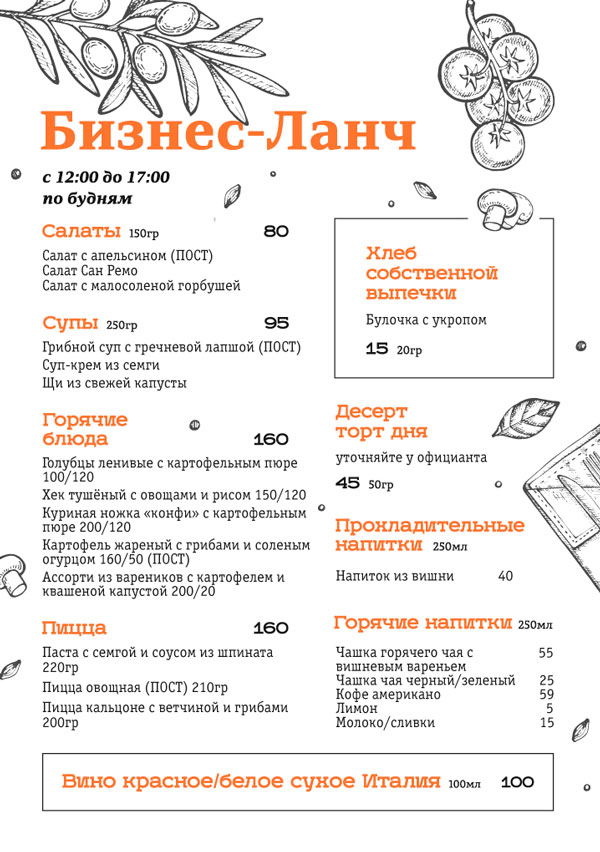
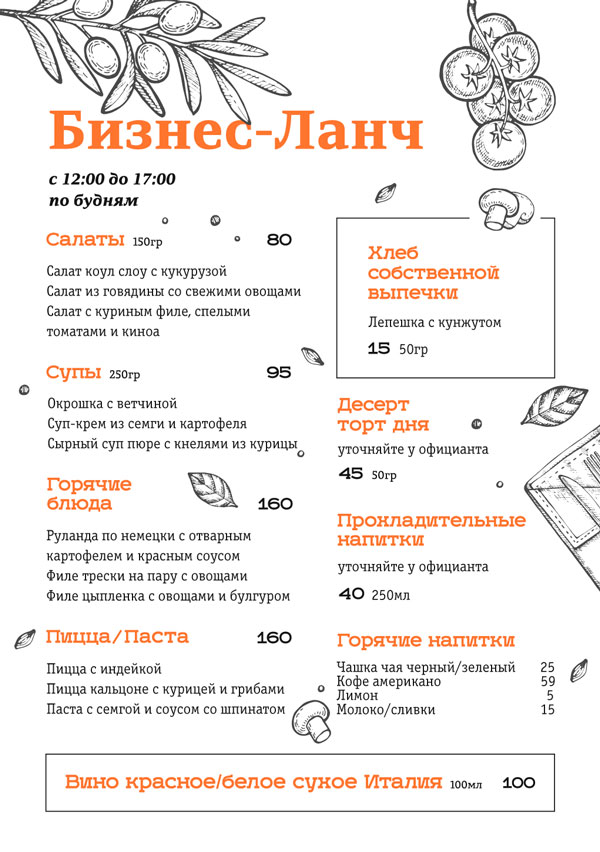
убрал кулич, вернул бизнес ланч

diff --git a/menu.html b/menu.html
@@ -133,9 +133,9 @@
                                 <li class="item"><a href="menu.html#breakfast" data-filter=".breakfast">
                                     <div>Завтраки</div>
                                 </a></li>
-<!--                                <li class="item"><a href="menu.html#lunch" data-filter=".lunch">
+                               <li class="item"><a href="menu.html#lunch" data-filter=".lunch">
                                     <div>Бизнес Ланч</div>
-                                </a></li>-->
+                                </a></li>
                                 <li class="item"><a href="bar_menu.html" target="_blank">
                                     <div>Барное Меню</div>
                                 </a></li>
@@ -198,13 +198,13 @@
                 <ul class="menu-fillter clearfix">
                     <li><a href="menu.html#main_menu" data-filter=".main_menu" id="main_menu">Основное меню</a></li>
                     <li><a href="menu.html#breakfast" data-filter=".breakfast" id="breakfast">Завтраки</a></li>
-                    <!--<li><a href="menu.html#lunch" data-filter=".lunch" id="lunch">Бизнес Ланчи</a></li>-->
+                    <li><a href="menu.html#lunch" data-filter=".lunch" id="lunch">Бизнес Ланчи</a></li>
                     <li><a href="menu.html#bar_menu" data-filter=".bar_menu" id="bar_menu">Барное меню</a></li>
                     <li><a href="menu.html#wine_map" data-filter=".wine_map" id="wine_map">Винная карта</a></li>
                    <!-- <li><a href="menu.html#seasonal" data-filter=".seasonal" id="seasonal">Сезонное меню</a></li>-->
                     <li><a href="menu.html#hookah" data-filter=".hookah" id="hookah">Кальян</a></li>
                     <li><a href="menu.html#prepack" data-filter=".prepack" id="prepack">Полуфабрикаты</a></li>
-                   <li><a href="menu.html#easter_cake" data-filter=".easter_cake" id="easter_cake">Куличи</a></li>
+                   <!--<li><a href="menu.html#easter_cake" data-filter=".easter_cake" id="easter_cake">Куличи</a></li>-->
 
 
                     <!--             <li><a href="menu.html#post" data-filter=".post" id="post">Постное Меню</a></li>-->

diff --git a/backup/02.06/menu.html b/backup/02.06/menu.html
@@ -133,9 +133,9 @@
                                 <li class="item"><a href="menu.html#breakfast" da1ta-filter=".breakfast">
                                     <div>Завтраки</div>
                                 </a></li>
-<!--                                <li class="item"><a href="menu.html#lunch" data-filter=".lunch">
+                               <li class="item"><a href="menu.html#lunch" data-filter=".lunch">
                                     <div>Бизнес Ланч</div>
-                                </a></li>-->
+                                </a></li>
 <!--                                <li class="item"><a href="seasonal_offer_interactive_menu.html" data-filter=".seasonal">
                                     <div>Сезонное Меню</div>
                                 </a></li>-->

diff --git a/backup_19_08_2018/menu.html b/backup_19_08_2018/menu.html
@@ -133,9 +133,9 @@
                                 <li class="item"><a href="menu.html#breakfast" da1ta-filter=".breakfast">
                                     <div>Завтраки</div>
                                 </a></li>
-<!--                                <li class="item"><a href="menu.html#lunch" data-filter=".lunch">
+                               <li class="item"><a href="menu.html#lunch" data-filter=".lunch">
                                     <div>Бизнес Ланч</div>
-                                </a></li>-->
+                                </a></li>
 <!--                                <li class="item"><a href="seasonal_offer_interactive_menu.html" data-filter=".seasonal">
                                     <div>Сезонное Меню</div>
                                 </a></li>-->

diff --git a/backup_19_08_2018/contact.html b/backup_19_08_2018/contact.html
@@ -122,9 +122,9 @@
                                 <li class="item"><a href="menu.html#breakfast" data-filter=".breakfast">
                                     <div>Завтраки</div>
                                 </a></li>
-<!--                                <li class="item"><a href="menu.html#lunch" data-filter=".lunch">
+                               <li class="item"><a href="menu.html#lunch" data-filter=".lunch">
                                     <div>Бизнес Ланч</div>
-                                </a></li>-->
+                                </a></li>
 <!--                                <li class="item"><a href="seasonal_offer_interactive_menu.html" data-filter=".seasonal">
                                     <div>Сезонное Меню</div>
                                 </a></li>-->

diff --git a/backup_19_08_2018/gallery.html b/backup_19_08_2018/gallery.html
@@ -121,9 +121,9 @@
                                 <li class="item"><a href="menu.html#breakfast" data-filter=".breakfast">
                                     <div>Завтраки</div>
                                 </a></li>
-<!--                                <li class="item"><a href="menu.html#lunch" data-filter=".lunch">
+                               <li class="item"><a href="menu.html#lunch" data-filter=".lunch">
                                     <div>Бизнес Ланч</div>
-                                </a></li>-->
+                                </a></li>
 <!--                                <li class="item"><a href="seasonal_offer_interactive_menu.html" data-filter=".seasonal">
                                     <div>Сезонное Меню</div>
                                 </a></li>-->

diff --git a/backup_19_08_2018/index.html b/backup_19_08_2018/index.html
@@ -132,9 +132,9 @@
                                 <li class="item"><a href="menu.html#breakfast" data-filter=".breakfast">
                                     <div>Завтраки</div>
                                 </a></li>
-<!--                                <li class="item"><a href="menu.html#lunch" data-filter=".lunch">
+                               <li class="item"><a href="menu.html#lunch" data-filter=".lunch">
                                     <div>Бизнес Ланч</div>
-                                </a></li>-->
+                                </a></li>
 <!--                                <li class="item"><a href="seasonal_offer_interactive_menu.html" data-filter=".seasonal">
                                     <div>Сезонное Меню</div>
                                 </a></li>-->

diff --git a/backup_19_08_2018/partners.html b/backup_19_08_2018/partners.html
@@ -121,9 +121,9 @@
                                 <li class="item"><a href="menu.html#breakfast" data-filter=".breakfast">
                                     <div>Завтраки</div>
                                 </a></li>
-<!--                                <li class="item"><a href="menu.html#lunch" data-filter=".lunch">
+                               <li class="item"><a href="menu.html#lunch" data-filter=".lunch">
                                     <div>Бизнес Ланч</div>
-                                </a></li>-->
+                                </a></li>
 <!--                                <li class="item"><a href="seasonal_offer_interactive_menu.html" data-filter=".seasonal">
                                     <div>Сезонное Меню</div>
                                 </a></li>-->

diff --git a/contact.html b/contact.html
@@ -122,9 +122,9 @@
                                 <li class="item"><a href="menu.html#breakfast" data-filter=".breakfast">
                                     <div>Завтраки</div>
                                 </a></li>
-<!--                                <li class="item"><a href="menu.html#lunch" data-filter=".lunch">
+                               <li class="item"><a href="menu.html#lunch" data-filter=".lunch">
                                     <div>Бизнес Ланч</div>
-                                </a></li>-->
+                                </a></li>
                                 <li class="item"><a href="bar_menu.html" target="_blank">
                                     <div>Барное Меню</div>
                                 </a></li>

diff --git a/corporate.html b/corporate.html
@@ -131,9 +131,9 @@
                                 <li class="item"><a href="menu.html#breakfast" data-filter=".breakfast">
                                     <div>Завтраки</div>
                                 </a></li>
-<!--                                <li class="item"><a href="menu.html#lunch" data-filter=".lunch">
+                               <li class="item"><a href="menu.html#lunch" data-filter=".lunch">
                                     <div>Бизнес Ланч</div>
-                                </a></li>-->
+                                </a></li>
                                 <li class="item"><a href="bar_menu.html" target="_blank">
                                     <div>Барное Меню</div>
                                 </a></li>

diff --git a/delivery.html b/delivery.html
@@ -120,9 +120,9 @@
                                 <li class="item"><a href="menu.html#breakfast" data-filter=".breakfast">
                                     <div>Завтраки</div>
                                 </a></li>
-<!--                                <li class="item"><a href="menu.html#lunch" data-filter=".lunch">
+                               <li class="item"><a href="menu.html#lunch" data-filter=".lunch">
                                     <div>Бизнес Ланч</div>
-                                </a></li>-->
+                                </a></li>
                                 <li class="item"><a href="bar_menu.html" target="_blank">
                                     <div>Барное Меню</div>
                                 </a></li>

diff --git a/gallery.html b/gallery.html
@@ -121,9 +121,9 @@
                                 <li class="item"><a href="menu.html#breakfast" data-filter=".breakfast">
                                     <div>Завтраки</div>
                                 </a></li>
-<!--                                <li class="item"><a href="menu.html#lunch" data-filter=".lunch">
+                               <li class="item"><a href="menu.html#lunch" data-filter=".lunch">
                                     <div>Бизнес Ланч</div>
-                                </a></li>-->
+                                </a></li>
                                 <li class="item"><a href="bar_menu.html" target="_blank">
                                     <div>Барное Меню</div>
                                 </a></li>

diff --git a/index.html b/index.html
@@ -135,9 +135,9 @@
                                 <li class="item"><a href="menu.html#breakfast" data-filter=".breakfast">
                                     <div>Завтраки</div>
                                 </a></li>
-<!--                                <li class="item"><a href="menu.html#lunch" data-filter=".lunch">
+                               <li class="item"><a href="menu.html#lunch" data-filter=".lunch">
                                     <div>Бизнес Ланч</div>
-                                </a></li>-->
+                                </a></li>
                                 <li class="item"><a href="bar_menu.html" target="_blank">
                                     <div>Барное Меню</div>
                                 </a></li>
